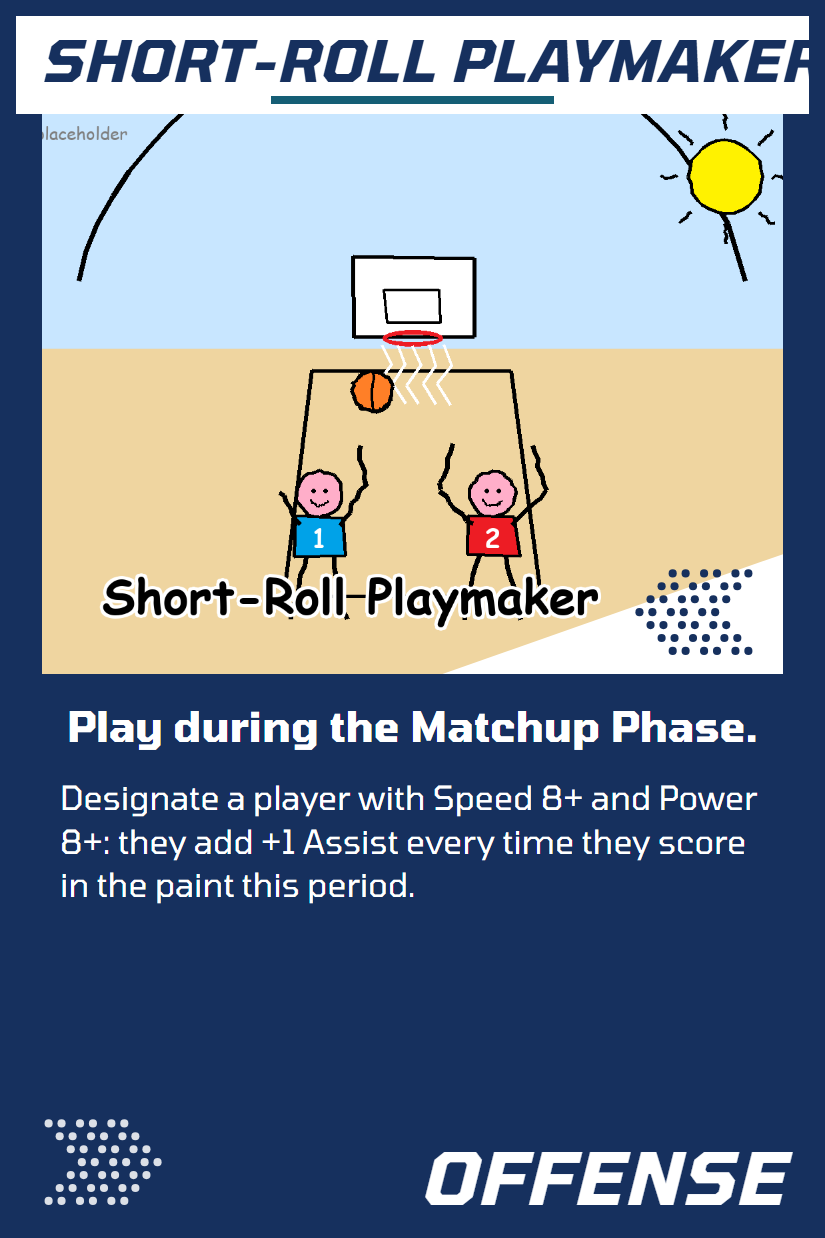
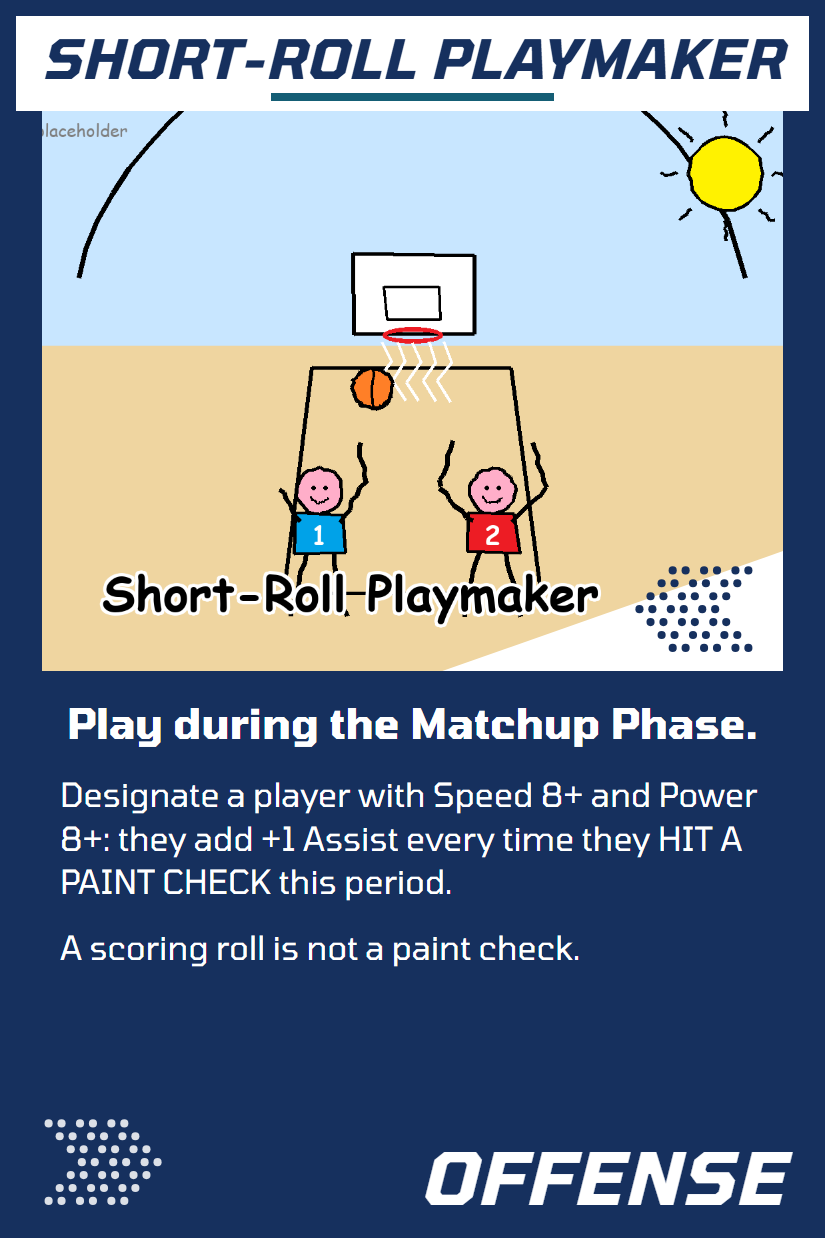
fix(cards): Short-Roll Playmaker asks once, and says what it pays on
The user, 2026-09-13: "I wanted to use it on Naz Hillmon, I selected her, then
there was a second prompt where I only had the option of Towns and Kelsey
Mitchell, so I clicked Towns. Scored paint points with Naz and I didn't get
assists." Then, on the log: "it fired, but on Towns."

Two faults, and the card was right about the third thing.

ASKED TWICE, FIRST ANSWER DISCARDED. CourtBoard picks a player two ways: a
shared `filteredPlayerCards` list that gives one generic prompt, and a card's
own block further down when it needs a filter the generic handler cannot
express. Short-Roll Playmaker and Pick-and-Roll Maestro were in BOTH. The
generic prompt asked first and offered players the card cannot legally take —
Naz Hillmon is Speed 7 / Power 7 against a card that requires 8/8 — and then
the card's own block asked again and overwrote opts.playerIdx. Removed from the
generic list; each card now asks once, with the right players on offer, so the
ineligible choice is never presented in the first place.

SAID "SCORE IN THE PAINT", MEANT "PAINT CHECK". Towns then rolled 3pts on a
scoring roll and no assist came, which reads as broken. It is not: the flag is
read in applyShotCheck when the check type is paint, and a scoring roll is not
a shot check — the chart does not say where its points came from, so it cannot
be. That is the only implementable reading, but the card text and the log line
both invited the other one. Both now say PAINT CHECK, and the card adds the
[…]

diff --git a/src/components/game/onePrompt.test.js b/src/components/game/onePrompt.test.js
@@ -1,0 +1,76 @@
+// A CARD ASKS ONCE (the user, 2026-09-13).
+//
+// "I wanted to use it on Naz Hillmon, I selected her, then there was a second
+// prompt where I only had the option of Towns and Kelsey Mitchell."
+//
+// CourtBoard picks a player two ways. `filteredPlayerCards` is a generic list —
+// every card in it gets one prompt from a shared handler — and a card with a
+// condition the generic handler cannot express gets its own block further down,
+// with its own filter. Short-Roll Playmaker and Pick-and-Roll Maestro were in
+// BOTH: the generic prompt asked first and offered players the card cannot
+// legally take (Naz Hillmon is Speed 7 / Power 7 against a card that needs
+// 8/8), then the card's own block asked again and overwrote opts.playerIdx, so
+// the first answer was silently discarded.
+//
+// This reads the component's source rather than rendering it, because the bug
+// is in a LIST, and a list is exactly the thing a rendering test would have to
+// drive twenty cards through to notice.
+import { describe, it, expect } from 'vitest';
+import fs from 'node:fs';
+import path from 'node:path';
+import { fileURLToPath } from 'node:url';
+
+const SRC = fs.readFileSync(
+  path.join(path.dirname(fileURLToPath(import.meta.url)), 'CourtBoard.jsx'),
+  'utf8'
+);
+
+/** The ids in the shared "pick one of my starters" list. */
+function genericList() {
+  const m = SRC.match(/const filteredPlayerCards = \[([\s\S]*?)\n {2}\];/);
+  expect(m, 'filteredPlayerCards not found — did the list move or get renamed?').toBeTruthy();
+  // Ignore ids that only appear inside a comment line.
+  return m[1]
+    .split('\n')
+    .filter(line => !line.trim().startsWith('//'))
+    .flatMap(line => [...line.matchAll(/'([a-z0-9_]+)'/g)].map(x => x[1]));
+}
+
+/** Ids with their own top-level picker block that sets opts.playerIdx. */
+function ownPickers() {
+  const out = new Set();
+  for (const m of SRC.matchAll(/\n {2}if \(cardId === '([a-z0-9_]+)'\) \{/g)) {
+    const body = SRC.slice(m.index, SRC.indexOf('\n  }', m.index));
+    if (/opts\.playerIdx\s*=/.test(body)) out.add(m[1]);
+  }
+  return out;
+}
+
+describe('a card is asked for its player exactly once', () => {
+  it('never lists a card that also has its own playerIdx picker', () => {
+    const generic = genericList();
+    const own = ownPickers();
+    const askedTwice = generic.filter(id => own.has(id));
+    expect(
+      askedTwice,
+      'these cards prompt twice and throw the first answer away — put each in one place, not both'
+    ).toEqual([]);
+  });
+
+  it('still routes the two that caused it, through their own filtered pickers', () => {
+    const generic = genericList();
+    const own = ownPickers();
+    for (const id of ['short_roll_playmaker', 'pick_and_roll_maestro']) {
+      expect(generic, `${id} is back in the generic list`).not.toContain(id);
+      expect(own, `${id} lost its own picker`).toContain(id);
+    }
+  });
+
+  it('leaves the cards whose second prompt asks a DIFFERENT question alone', () => {
+    // Energy Injection picks a second cheap player, Stretch Five a target —
+    // neither overwrites the first answer, so both belong in the generic list.
+    const generic = genericList();
+    expect(generic).toContain('energy_injection');
+    expect(generic).toContain('stretch_five');
+  });
+});

diff --git a/src/game/strats.js b/src/game/strats.js
@@ -186,7 +186,7 @@ export const STRATS = [
   { id:'pick_and_roll_maestro', name:'Pick-and-Roll Maestro', phase:'matchup', side:'off', copies:1, locked:true, color:'#9A3412', rarity:'rare',
     desc:'A player at Speed 14+ swaps defenders with a teammate. If their new defender is 5+ slower than they are, they take a Paint Shot Check: 2 points and +1 Assist.' },
   { id:'short_roll_playmaker', name:'Short-Roll Playmaker', phase:'matchup', side:'off', copies:2, locked:false, color:'#155E75', rarity:'uncommon',
-    desc:'Designate a player with Speed 8+ and Power 8+: they add +1 Assist every time they score in the paint this period.' },
+    desc:'Designate a player with Speed 8+ and Power 8+: they add +1 Assist every time they HIT A PAINT CHECK this period. A scoring roll is not a paint check.' },
   { id:'inside_out',          name:'Inside-Out',         phase:'reaction', side:'off', copies:2, locked:false, color:'#1D4ED8', rarity:'uncommon',
     desc:'After one of your players scores in the paint: a teammate takes a free 3PT Shot Check.' },
   { id:'lob_city',            name:'Lob City',           phase:'scoring',  side:'off', copies:1, locked:false, color:'#7E22CE', rarity:'rare',

diff --git a/src/components/game/CourtBoard.jsx b/src/components/game/CourtBoard.jsx
@@ -213,7 +213,15 @@ export async function buildOpts(game, teamKey, cardId, base, openModal, ui = {})
     'stretch_five', 'post_domination', 'unsung_hero', 'transition_outlet',
     'find_the_open_man', 'putback_specialist', 'hustle_play',
     // Wave two (2026-09-07).
-    'outside_pick', 'short_roll_playmaker', 'pick_and_roll_maestro',
+    'outside_pick',
+    // NOT short_roll_playmaker OR pick_and_roll_maestro. Both have their own
+    // picker below, with the filter the card actually requires — 8/8 for the
+    // facilitator, Speed 14+ for the ball-handler — and both then OVERWRITE
+    // opts.playerIdx. Listing them here as well asked the player twice and
+    // threw the first answer away: the user, 2026-09-13, chose Naz Hillmon
+    // (Speed 7 / Power 7) at the first prompt, was asked again with only the
+    // two eligible players on offer, and the card landed on the second pick.
+    // A card belongs in ONE of these two places, never both.
   ];
 
   // Cards that show ALL my starters (no filtering — additive, safe post-roll)

diff --git a/src/game/execCard.js b/src/game/execCard.js
@@ -1400,7 +1400,7 @@ function resolveCard(game, teamKey, cardId, opts = {}) {
       }
       if (!g.tempEff[teamKey]) g.tempEff[teamKey] = {};
       g.tempEff[teamKey]['paintAst' + idx] = 1;
-      addLog(g, teamKey, `Short-Roll Playmaker: ${player?.name} adds an assist on every paint score this period`);
+      addLog(g, teamKey, `Short-Roll Playmaker: ${player?.name} adds an assist on every PAINT CHECK he hits this period (not on scoring rolls)`);
       break;
     }
 
